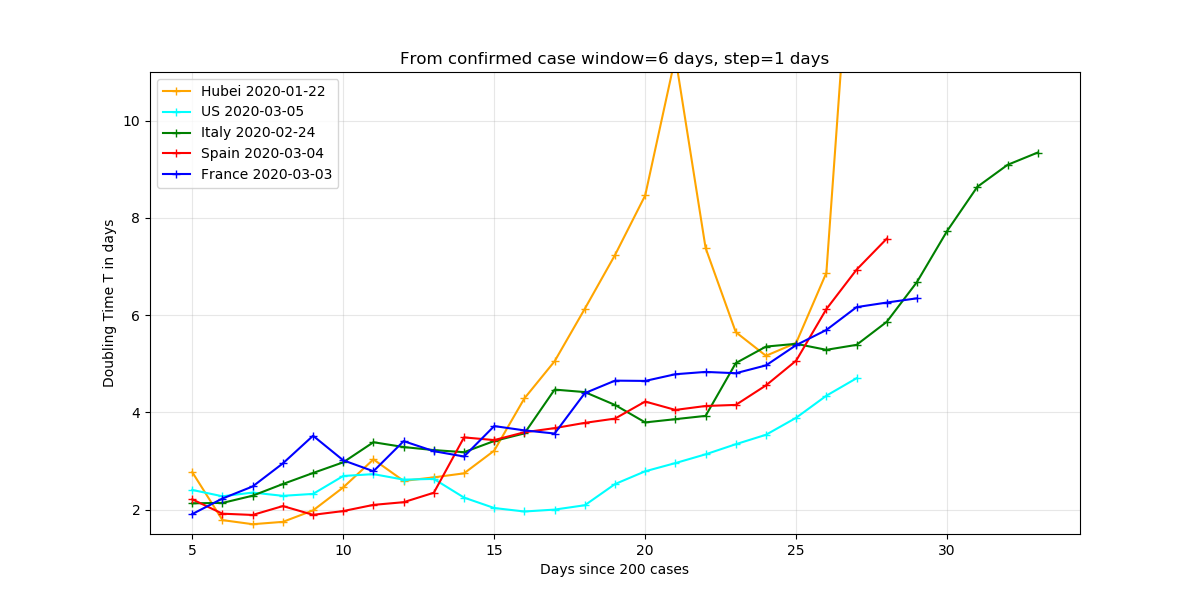
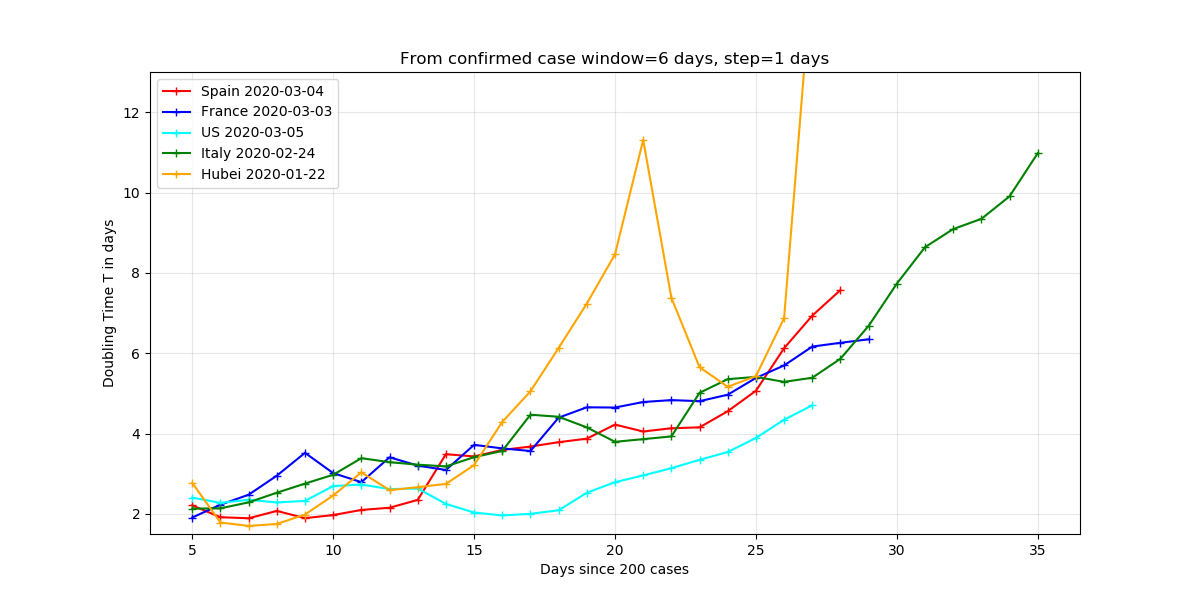
update plot+anim

diff --git a/coronapy_key_plots.py b/coronapy_key_plots.py
@@ -104,7 +104,7 @@ if 6 in plt_list:
     subset = confirmed.subset(names1)
     origin = confirmed.when_case_exceed(200)
     
-    data = subset.get_day_indexed(origin).subset(start=0, end=33)
+    data = subset.get_day_indexed(origin).subset(start=0, end=35)
     
     # intervals of 6 days every day 
     # the mindays keyword assure that their is always 6 points per sample (6 full days)
@@ -112,7 +112,7 @@ if 6 in plt_list:
     result = data.fit_intervals(intervals)
     # first argument datekey can be 'start', 'end', 'center' define which date to plot
     axes = result.plot(datekey='end', style={'marker':'+'})
-    axes.set(ylim=(1.5,11), xlabel="Days since 200 cases", ylabel="Doubling Time T in days", 
+    axes.set(ylim=(1.5,13), xlabel="Days since 200 cases", ylabel="Doubling Time T in days", 
     title="From confirmed case window=%d days, step=1 days"%(6)) 
     save('confirmed_T', axes.figure)
 
@@ -120,13 +120,13 @@ if 7 in plt_list:
     plt.figure()
     subset = death.subset(names1)
     origin = death.when_case_exceed(20)
-    data = subset.get_day_indexed(origin).subset(start=0, end=30)
+    data = subset.get_day_indexed(origin).subset(start=0, end=35)
     
     intervals = data.intervals(window=6, step=1, mindays=6)
     result = data.fit_intervals(intervals)
     # first argument datekey can be 'start', 'end', 'center' define which date to plot
     axes = result.plot(datekey='end', style={'marker':'+'})
-    axes.set(ylim=(1,8), xlabel="Days since 20 cases", ylabel="Doubling Time T in days", 
+    axes.set(ylim=(1,10), xlabel="Days since 20 cases", ylabel="Doubling Time T in days", 
     title="From death case window=%d days, step=1 days"%(6))  
     save('death_T', axes.figure)
 
